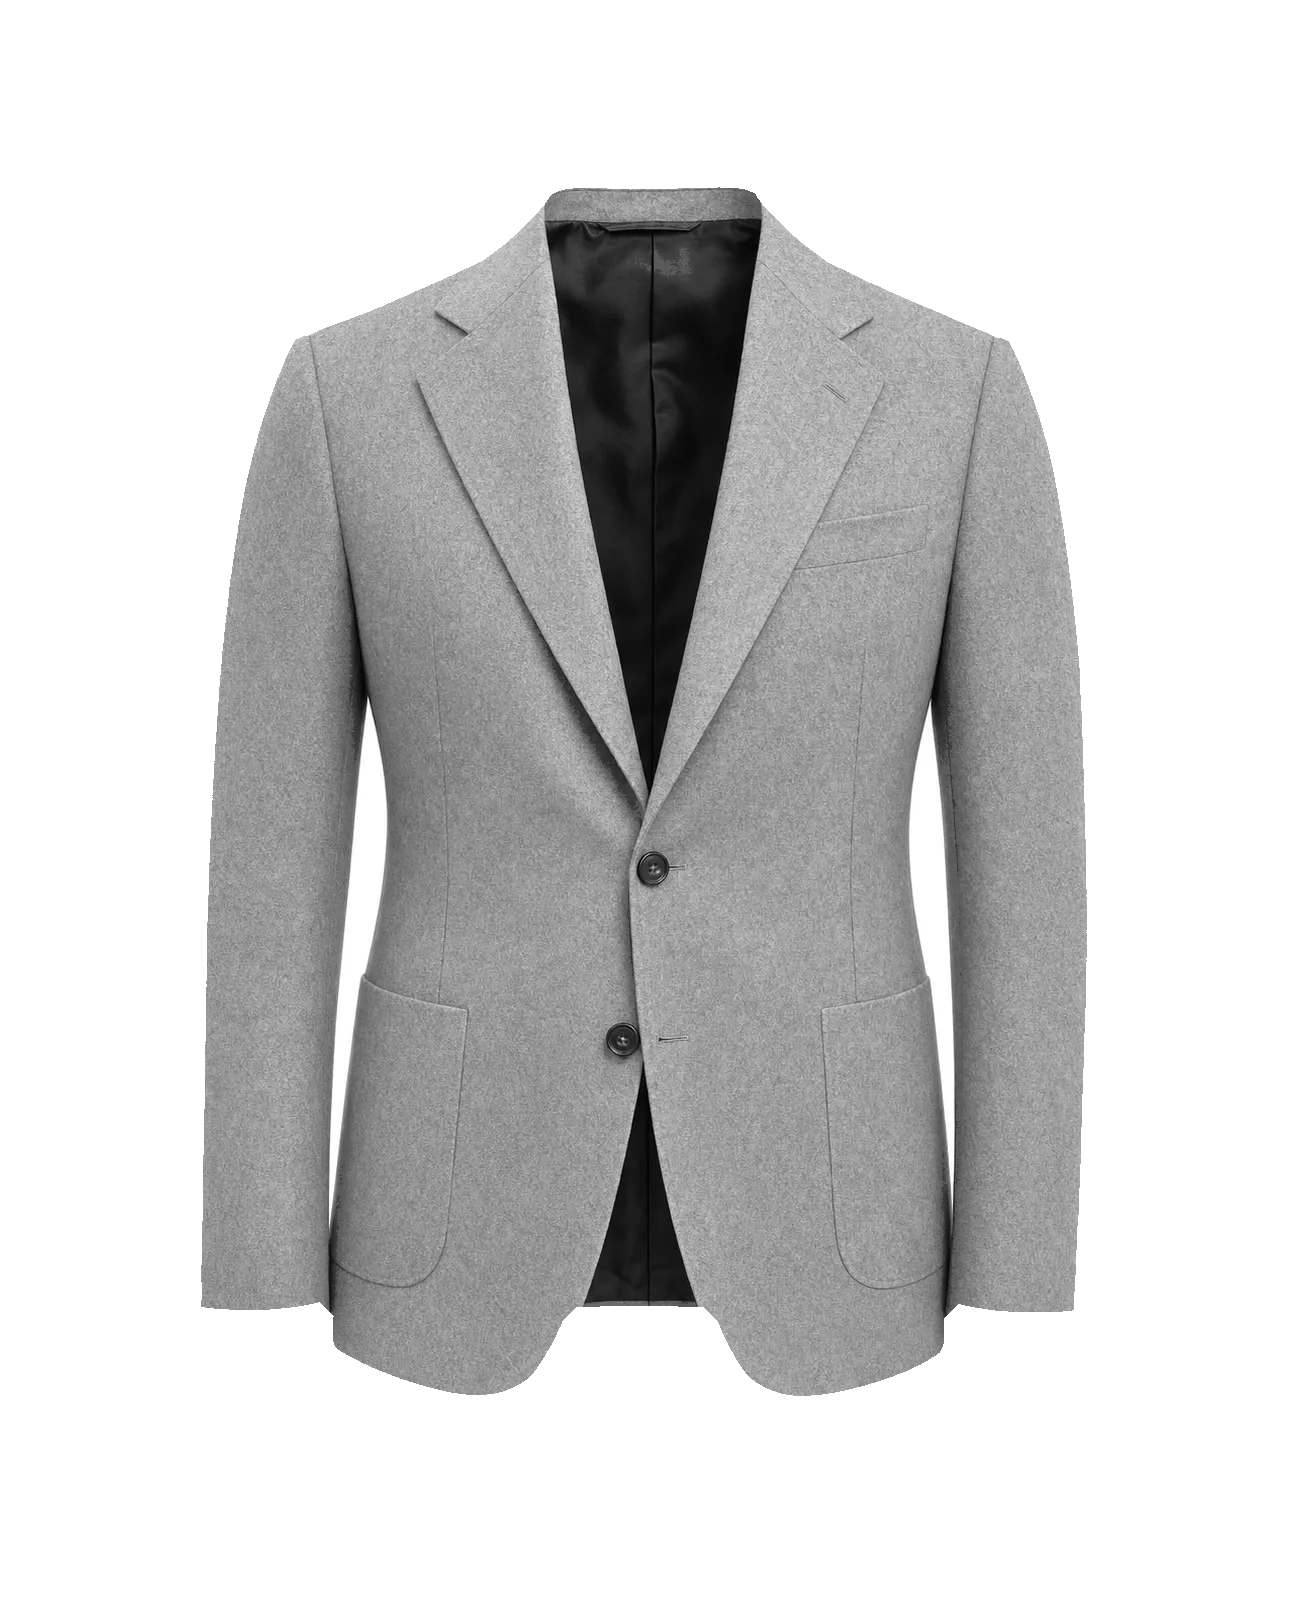
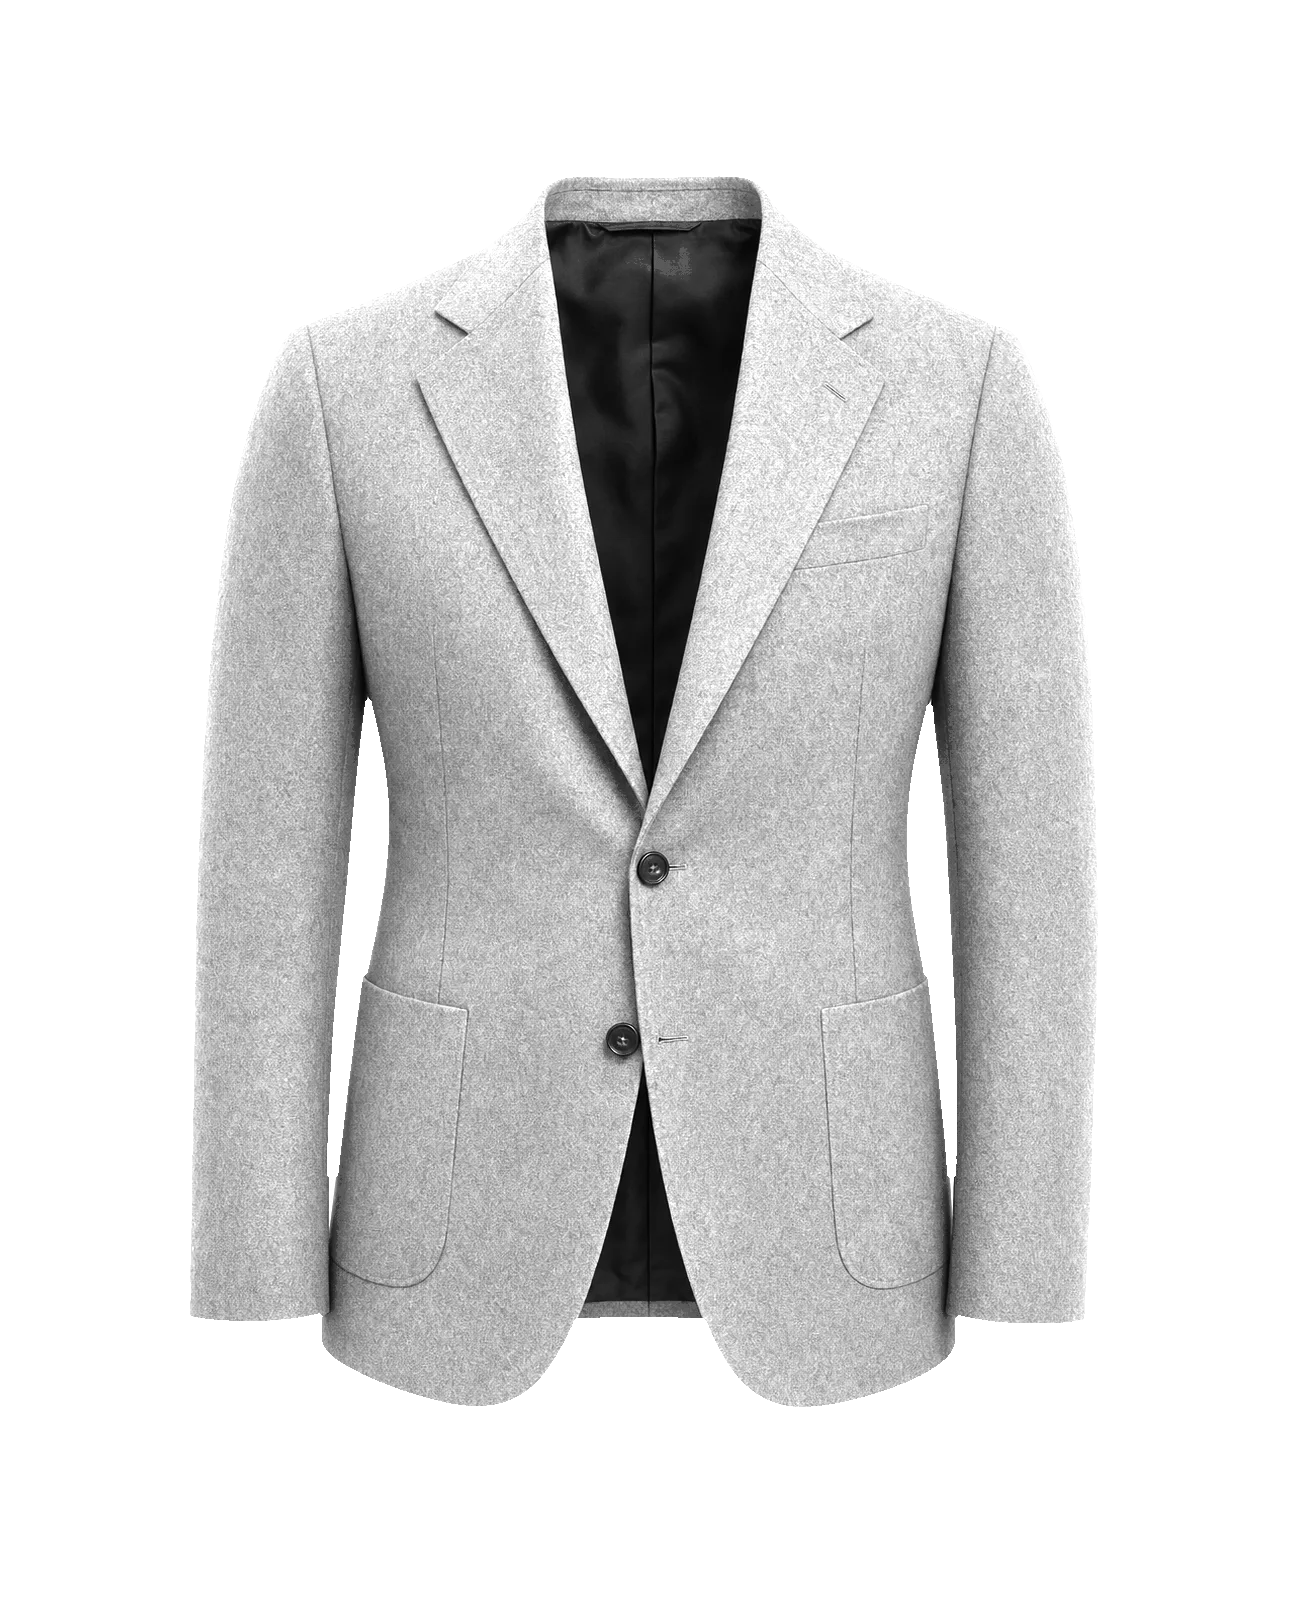
Punch the missed right-side gap, extend to notch-patch, fix body/sleeve pitch mismatch
Three follow-ups from the same screenshot review:

1. The gap punch only found and fixed jacket-sb's LEFT sleeve/torso
   seam — the right side was still solid fabric, simply because nobody
   searched for it. Added a mirrored box.

2. jacket-sb-notch-patch (same widened-notch generation batch as
   jacket-sb) turns out to carry the identical gap in the identical
   position on both sides. Confirmed by trying jacket-sb's own box
   coordinates against it directly rather than guessing new numbers —
   worked first try. Both keys now get GAP_ISLAND_FIXES for both sides.

3. A fine pinstripe (scabal_pinstripe_navy, pitch 12) showed the body
   panel rendering at the cloth's true pitch (12) while the sleeves'
   existing strength:0.74 compresses theirs to 9 — a mismatch invisible
   on every bolder pattern tested so far, and long-standing convention
   across this file, not new. Founder call: the sleeve's compressed
   size is correct, body should match it. Added JACKET_SB_BODY_SCALE, a
   single unrotated (angle 0) whole-canvas box at strength 0.74,
   positioned first in jacket-sb's DISPLACEMENT_REGIONS so lapel/collar/
   sleeve regions still draw their own distinct scale on top of it.
   Scoped to jacket-sb only; the same mismatch likely exists on other
   garments but wasn't asked for here.

Re-verified: gap present on both sides on both keys, body/sleeve pitch
both measure 9px (was 12 vs 9), no regression on chalkstripe or
[…]

diff --git a/garment-photo.js b/garment-photo.js
@@ -209,6 +209,27 @@ var JACKET_SB_COLLAR_RIGHT = [
     }
 ];
 
+// The plain body panel (everywhere not covered by a lapel, collar, or
+// sleeve region) was left at the tile's native, unscaled pitch, while
+// JACKET_SB_SLEEVES_V2 above compresses the sleeves to strength 0.74 —
+// a "roundness" cue that's been the convention for every garment's
+// sleeves in this file from the start. A bold chalkstripe/check never
+// showed the mismatch; a fine pinstripe (pitch 12, scabal_pinstripe_
+// navy) made it obvious: the body measured pitch 12 (the cloth's own
+// true, defined value) against the sleeve's 9 (12 * 0.74). Founder
+// call: the sleeve's compressed size is the correct one, so the body
+// should match it, not the other way round — matches "anything that
+// isn't shaded should point up" (angle 0 here, same as the body's
+// previous default) with only the scale changed to follow the sleeve.
+// One box spanning the whole canvas, no clip needed since there's
+// nothing outside it to blend into; positioned FIRST in jacket-sb's
+// DISPLACEMENT_REGIONS list below so every later, more specific region
+// (lapel 0.82, collar 0.82, sleeve 0.74) still draws its own distinct
+// scale on top of this one within its own clip, unchanged.
+var JACKET_SB_BODY_SCALE = [
+    { x: 0, y: 0, w: 1, h: 1, angle: 0, strength: 0.74 }
+];
+
 // Peak lapel (jacket-sb-peak-*): two prior passes at this trace both
 // mis-shaped it — a blind grid-eyeball guess, then a pinstripe-kink
 // analysis (August 2026) that fixed the worst of it but still
@@ -403,7 +424,7 @@ var DISPLACEMENT_REGIONS = {
     // the old JACKET_SB_LAPELS trace (see its own comment above) — sleeves-
     // only until 25 Aug 2026, when JACKET_SB_LAPELS was retraced against this
     // exact photo via the flat-colour-panel technique. Lapel bend restored.
-    "jacket-sb": JACKET_SB_LAPELS.concat(JACKET_SB_COLLAR_LEFT, JACKET_SB_COLLAR_RIGHT, JACKET_SB_SLEEVES_V2),
+    "jacket-sb": JACKET_SB_BODY_SCALE.concat(JACKET_SB_LAPELS, JACKET_SB_COLLAR_LEFT, JACKET_SB_COLLAR_RIGHT, JACKET_SB_SLEEVES_V2),
     "jacket-sb-peak-patch": JACKET_SB_PEAK_LAPELS.concat(JACKET_SB_PEAK_TIPS, JACKET_SLEEVES),
     "jacket-sb-peak-flap": JACKET_SB_PEAK_LAPELS.concat(JACKET_SB_PEAK_TIPS, JACKET_SLEEVES),
     "jacket-db": JACKET_DB_LAPELS.concat(JACKET_DB_SLEEVES),

diff --git a/tools/build-garment-assets.js b/tools/build-garment-assets.js
@@ -112,8 +112,23 @@ function luma(px, i) {
 // garment. Run AFTER extractMask, before erosion, so erosion still
 // smooths the punched hole's own edge like any other silhouette
 // boundary.
+// jacket-sb: right side added 25 Aug 2026 — the first pass only found
+// and punched the left island, missing the mirrored one on the right
+// (same photo, same defect, just not searched for). jacket-sb-notch-
+// patch shares the same widened-notch generation batch as jacket-sb
+// (see that key's own SOURCES comment) and turns out to carry the
+// identical gap in the identical position on BOTH sides — confirmed by
+// literally trying jacket-sb's own box coordinates against this photo
+// and finding a clean natural gap there too, not a guess.
 var GAP_ISLAND_FIXES = {
-    "jacket-sb": [{ x: 0.15, y: 0.40, w: 0.14, h: 0.34 }]
+    "jacket-sb": [
+        { x: 0.15, y: 0.40, w: 0.14, h: 0.34 },
+        { x: 0.71, y: 0.40, w: 0.14, h: 0.34 }
+    ],
+    "jacket-sb-notch-patch": [
+        { x: 0.15, y: 0.40, w: 0.14, h: 0.34 },
+        { x: 0.71, y: 0.40, w: 0.14, h: 0.34 }
+    ]
 };
 
 function punchGapIslands(px, mask, w, h, boxes) {

diff --git a/sw.js b/sw.js
@@ -6,7 +6,7 @@
 // IMPORTANT: bump CACHE_VERSION on every deploy that changes any
 // cached file (the ?v= params below must match index.html).
 
-var CACHE_VERSION = "bbs-v161";
+var CACHE_VERSION = "bbs-v162";
 
 var PRECACHE = [
     "./",

diff --git a/docs/2026-08-23-style-room-image-prompts.md b/docs/2026-08-23-style-room-image-prompts.md
@@ -206,6 +206,35 @@ and compositing the render against a coloured background confirms the
 gap is genuinely transparent, connecting to the true edge near the
 shoulder the same way the reference does.
 
+**Two follow-ups, same day.** First: the gap punch above only found and
+fixed the LEFT side — the right sleeve/torso seam was still solid
+fabric, missed simply because nobody searched for it. Added a mirrored
+box (`{x:0.71,y:0.40,w:0.14,h:0.34}`) and confirmed the same fractional
+coordinates land cleanly on a matching natural gap in `jacket-sb-notch-
+patch`'s own source photo too (same widened-notch generation batch —
+tried the exact same box against it rather than guessing new numbers,
+and it worked first try). Both keys now get both sides.
+
+Second: a fine pinstripe (`scabal_pinstripe_navy`, pitch 12) revealed
+the plain body panel renders at the cloth's true, defined pitch (12,
+measured) while `JACKET_SB_SLEEVES_V2`'s existing `strength: 0.74`
+compresses the sleeves to pitch 9 — a mismatch invisible on every
+bolder pattern used before. This "roundness" compression on sleeves is
+long-standing convention across every garment in this file, not new;
+the fine pinstripe just finally exposed it. Founder call: the sleeve's
+compressed size is the one that reads correctly, so the body should
+match it, not the reverse. Added `JACKET_SB_BODY_SCALE` — one box
+spanning the whole canvas, angle 0 (unrotated, matching "anything that
+isn't shaded points up"), `strength: 0.74` — positioned FIRST in
+`jacket-sb`'s `DISPLACEMENT_REGIONS` entry so every later, more
+specific region (lapel 0.82, collar 0.82, sleeve 0.74) still draws its
+own distinct scale on top of it within its own clip, unchanged. Scoped
+to `jacket-sb` only for now — the same body/sleeve mismatch likely
+exists on every other garment too, but wasn't in scope of what was
+asked. Re-measured: body and sleeve pitch both landed at 9px after the
+fix (were 12 vs 9). No regression on `fox_flannel_chalkstripe` or
+`holland_sherry_windowpane_blue`.
+
 **Founder correction (23 Aug 2026): the shipped notch lapel reads too
 narrow. Widen it to at least 4" (≈10cm) at its widest point** — still a
 true notch (clean V where collar meets lapel), not a peak, just cut fuller
